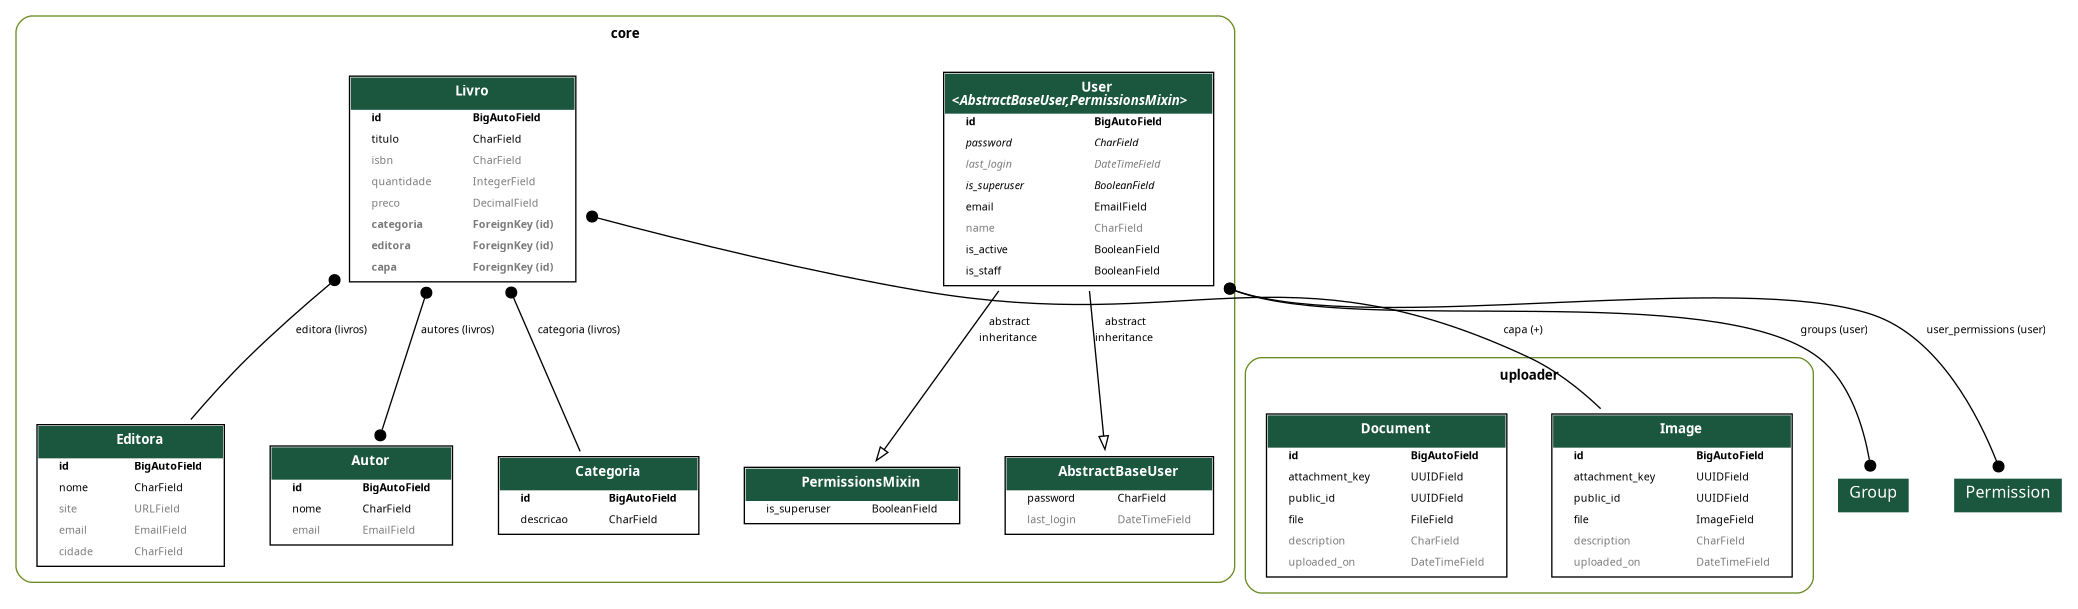
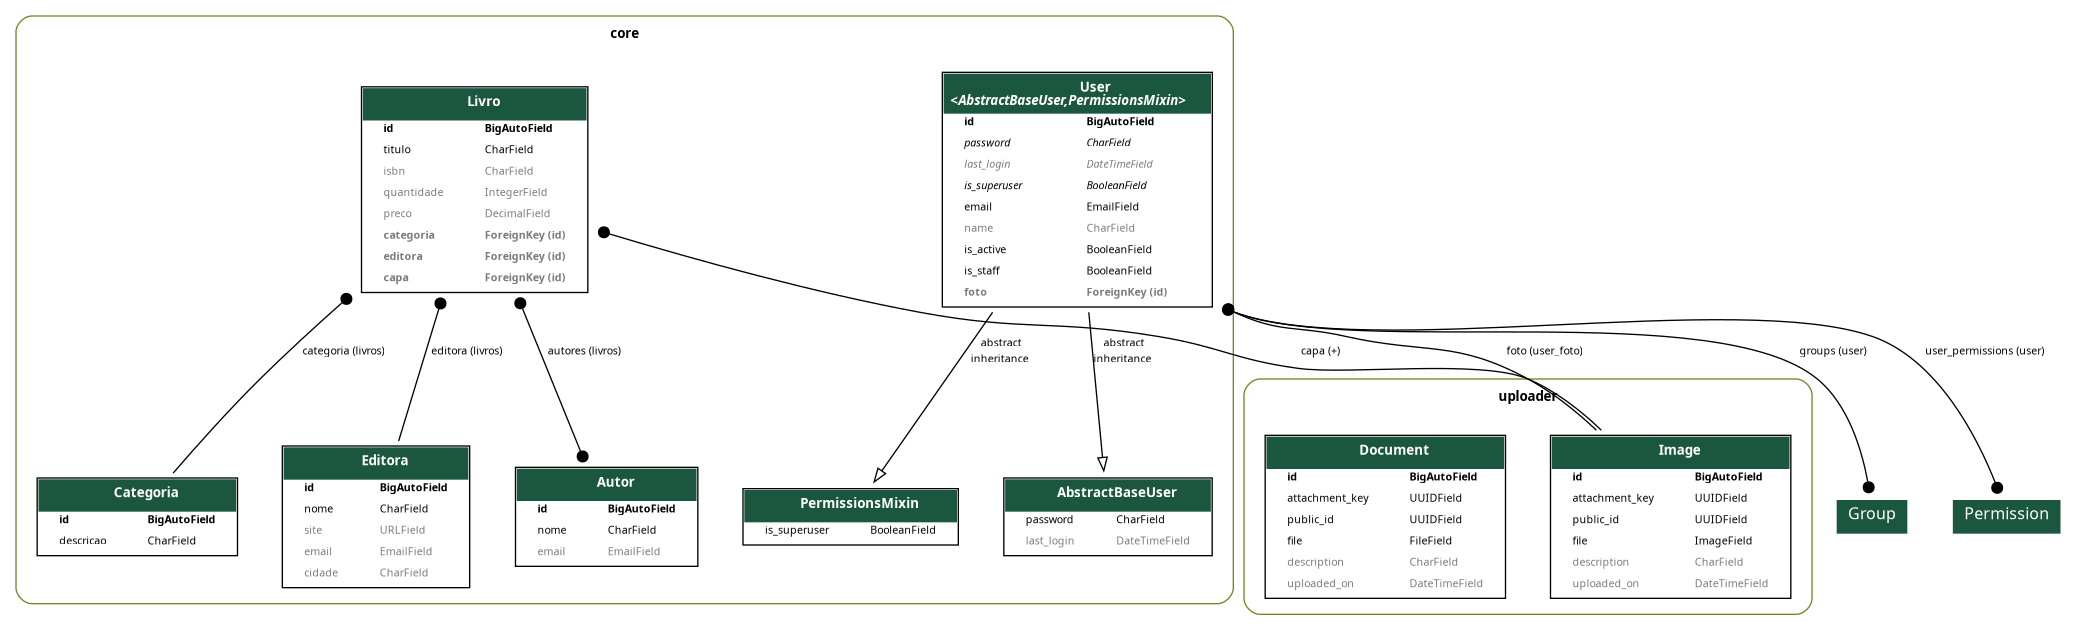
feat: inclusão da foto de perfil no usuário e ajustes no admin.

diff --git a/core/serializers/user.py b/core/serializers/user.py
@@ -1,18 +1,40 @@
-from rest_framework import serializers
-from rest_framework.serializers import ModelSerializer
+from rest_framework.serializers import CharField, ModelSerializer, SlugRelatedField
 
 from core.models import User
+from uploader.models import Image
+from uploader.serializers import ImageSerializer
 
 
 class UserSerializer(ModelSerializer):
+    foto_attachment_key = SlugRelatedField(
+        source='foto',
+        queryset=Image.objects.all(),
+        slug_field='attachment_key',
+        required=False,
+        write_only=True,
+    )
+    foto = ImageSerializer(
+        required=False,
+        read_only=True
+    )
     class Meta:
         model = User
-        fields = ['id', 'email', 'name', 'is_active', 'is_staff', 'is_superuser', 'last_login', 'groups']
+        fields = (
+            'id',
+            'email',
+            'name',
+            'foto',
+            'foto_attachment_key',
+            'is_active',
+            'is_staff',
+            'is_superuser',
+            'last_login',
+            'groups')
         depth = 1
 
 
 class UserRegistrationSerializer(ModelSerializer):
-    password = serializers.CharField(write_only=True, min_length=8)
+    password = CharField(write_only=True, min_length=8)
 
     class Meta:
         model = User

diff --git a/core/migrations/0013_user_foto.py b/core/migrations/0013_user_foto.py
@@ -1,0 +1,20 @@
+# Generated by Django 5.2.13 on 2026-05-12 17:20
+
+import django.db.models.deletion
+from django.db import migrations, models
+
+
+class Migration(migrations.Migration):
+
+    dependencies = [
+        ('core', '0012_alter_livro_preco'),
+        ('uploader', '0001_initial'),
+    ]
+
+    operations = [
+        migrations.AddField(
+            model_name='user',
+            name='foto',
+            field=models.ForeignKey(blank=True, default=None, null=True, on_delete=django.db.models.deletion.SET_NULL, related_name='user_foto', to='uploader.image'),
+        ),
+    ]

diff --git a/core/models/user.py b/core/models/user.py
@@ -1,7 +1,3 @@
-"""
-Database models.
-"""
-
 from django.contrib.auth.models import (
     AbstractBaseUser,
     BaseUserManager,
@@ -9,6 +5,8 @@ from django.contrib.auth.models import (
 )
 from django.db import models
 from django.utils.translation import gettext_lazy as _
+
+from uploader.models import Image
 
 
 class UserManager(BaseUserManager):
@@ -49,6 +47,14 @@ class User(AbstractBaseUser, PermissionsMixin):
         default=False,
         verbose_name=_('Usuário é da equipe'),
         help_text=_('Indica que este usuário pode acessar o Admin.'),
+    )
+    foto = models.ForeignKey(
+        Image,
+        related_name='user_foto',
+        on_delete=models.SET_NULL,
+        null=True,
+        blank=True,
+        default=None,
     )
 
     objects = UserManager()

diff --git a/core/admin.py b/core/admin.py
@@ -49,11 +49,12 @@ class LivroAdmin(ModelAdmin):
 class UserAdmin(BaseUserAdmin):
     """Define the admin pages for users."""
 
-    ordering = ['id']
-    list_display = ['email', 'name']
+    ordering = ('id',)
+    list_display = ('email', 'name')
+    search_fields = ('email', 'name', 'groups__name')
     fieldsets = (
         (None, {'fields': ('email', 'password')}),
-        (_('Personal Info'), {'fields': ('name',)}),
+        (_('Personal Info'), {'fields': ('name', 'foto',)}),
         (
             _('Permissions'),
             {
@@ -79,6 +80,7 @@ class UserAdmin(BaseUserAdmin):
                     'password1',
                     'password2',
                     'name',
+                    'foto',
                     'is_active',
                     'is_staff',
                     'is_superuser',

diff --git a/uploader/views.py b/uploader/views.py
@@ -9,12 +9,12 @@ class CreateViewSet(mixins.ListModelMixin, mixins.CreateModelMixin, viewsets.Gen
 
 
 class DocumentUploadViewSet(CreateViewSet):
-    queryset = Document.objects.all() #  pylint: disable=no-member
+    queryset = Document.objects.all()  # pylint: disable=no-member
     serializer_class = DocumentUploadSerializer
     parser_classes = [parsers.FormParser, parsers.MultiPartParser]
 
 
 class ImageUploadViewSet(CreateViewSet):
-    queryset = Image.objects.all() #  pylint: disable=no-member
+    queryset = Image.objects.all()  # pylint: disable=no-member
     serializer_class = ImageUploadSerializer
     parser_classes = [parsers.FormParser, parsers.MultiPartParser]

diff --git a/core/serializers/livro.py b/core/serializers/livro.py
@@ -1,9 +1,8 @@
 from rest_framework.serializers import ModelSerializer, SlugRelatedField
 
+from core.models import Livro
 from uploader.models import Image
 from uploader.serializers import ImageSerializer
-
-from core.models import Livro
 
 
 class LivroListSerializer(ModelSerializer):

diff --git a/uploader/tests.py b/uploader/tests.py
@@ -1,3 +1,2 @@
-from django.test import TestCase
 
 # Create your tests here.